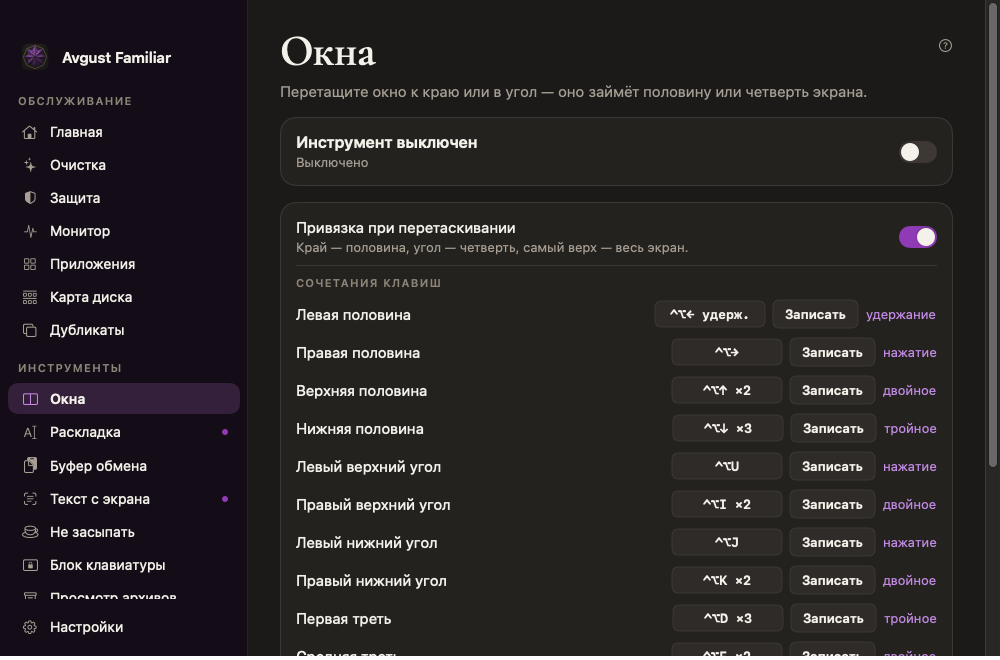
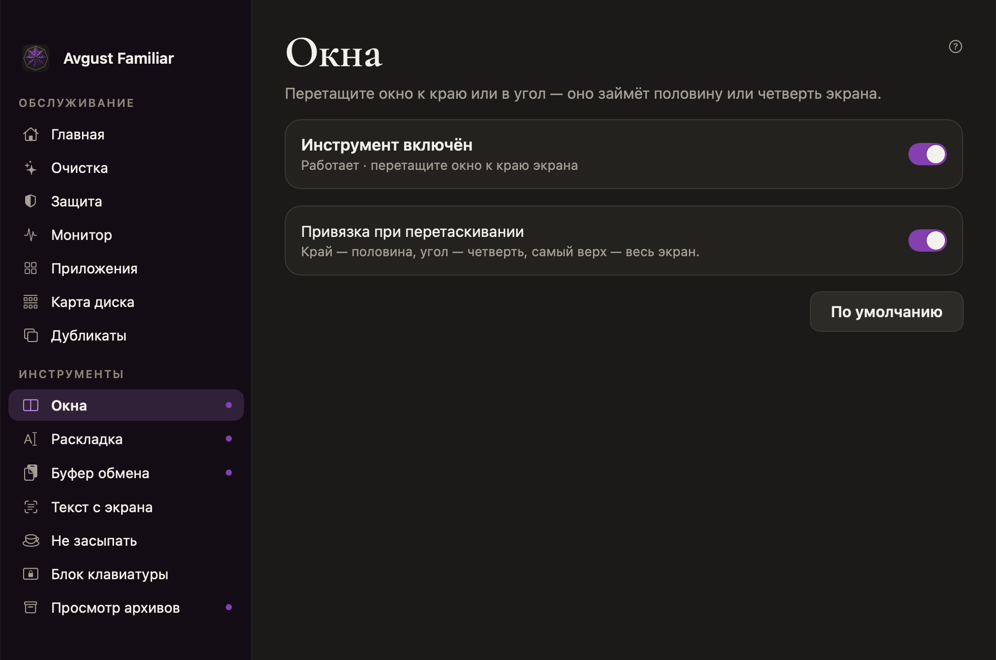
Avgust Familiar 1.0.1

diff --git a/README.md b/README.md
@@ -26,7 +26,7 @@
 | Приложения | Что давно не открывали; удаление вместе со служебными файлами программы |
 | Карта диска | Что занимает место во всей домашней папке или на выбранном диске, прямоугольниками по размеру |
 | Дубликаты | Одинаковые файлы, сравнение по содержимому |
-| Окна | Прилипание к краям и углам экрана при перетаскивании, горячие клавиши для половин, четвертей и полного экрана |
+| Окна | Прилипание при перетаскивании: край — половина экрана, угол — четверть, самый верх — весь экран |
 | Раскладка | Исправляет «ghb» → «при» прямо при наборе; универсальная клавиша (по умолчанию нажатие Fn); сниппеты через `]` |
 | Буфер обмена | История с текстом, картинками и файлами; окно у курсора по ⌘⇧V, стрелки, Enter, цифры 1–9 |
 | Текст с экрана | Выделите область — текст окажется в буфере обмена |
@@ -142,7 +142,7 @@ keyboard lock and archive preview. Nothing goes to the internet except the updat
 | Applications | What you have not opened for a long time; removal together with the app’s support files |
 | Disk map | What takes space in your whole home folder or on a disk you choose, as rectangles by size |
 | Duplicates | Identical files, compared by content |
-| Windows | Snap to screen edges and corners while dragging; shortcuts for halves, quarters and full screen |
+| Windows | Snap while dragging: an edge is half the screen, a corner a quarter, the very top the full screen |
 | Keyboard layout | Fixes text typed in the wrong layout as you type; a universal key (Fn press by default); snippets with `]` |
 | Clipboard | History of text, images and files; a window at the pointer with ⌘⇧V, arrows, Enter, digits 1–9 |
 | Text from screen | Select an area and its text lands on the clipboard |

diff --git a/CHANGELOG.md b/CHANGELOG.md
@@ -1,5 +1,11 @@
 # Изменения / Changes
 
+## 1.0.1 — 2026-11-07
+
+**RU.** Окна — только перетаскивание, без горячих клавиш. Раскладка — исправлена работа: движок теперь на основе RuSwitcher; Fn и двойной ⌥ работают на настоящей клавиатуре, повторное нажатие возвращает текст, отмена больше не выключает исправление слов. Если нет доступа, это видно на экране раскладки и в панели, с кнопкой настроек; после выдачи доступа всё запускается само. Экраны открываются без пауз: самая долгая задержка главного потока за 10 000 тестовых действий снизилась с 142 до 57 мс.
+
+**EN.** Windows — dragging only, no keyboard shortcuts. Layout — fixed: the engine is now based on RuSwitcher; Fn and double ⌥ work on a real keyboard, pressing again restores the text, and an undo no longer turns correction off for a word. Missing access is now shown on the Layout screen and in the panel, with a button to the settings; everything starts by itself once access is granted. Screens open without stalls: the longest main-thread pause over 10,000 test actions went from 142 ms to 57 ms.
+
 ## 1.0.0 — 2026-10-30
 
 **RU.** Первый публичный выпуск: обслуживание Mac (умная проверка, очистка, защита, монитор, приложения, карта диска, дубликаты) и инструменты (окна, раскладка и сниппеты, буфер обмена, текст с экрана, «Не засыпать», блок клавиатуры, просмотр архивов). macOS 15+, процессор Apple.

diff --git a/THIRD_PARTY_NOTICES.md b/THIRD_PARTY_NOTICES.md
@@ -490,7 +490,7 @@ SOFTWARE.
 ---
 
 ## RuSwitcher (MIT)
-https://github.com/rashn/RuSwitcher — commit 67bd3317ca346d062755cf8457b71a61d7559986. Used for: whole-word layout decision (Russian / English) — Sources/ThirdParty/RuSwitcher.
+https://github.com/rashn/RuSwitcher — commit cabc8cfce0a298bbffc3b8fd5a10065c6e9c7e67. Used for: the engine of the Layout tool (typing buffer by key codes, key tables of a layout pair, word decision, word-by-word conversion of a selection, how text is retyped and how layouts are selected) — Sources/ThirdParty/RuSwitcher, Features/Layout. The name and the icon of RuSwitcher are not used.
 
 ```
 MIT License
